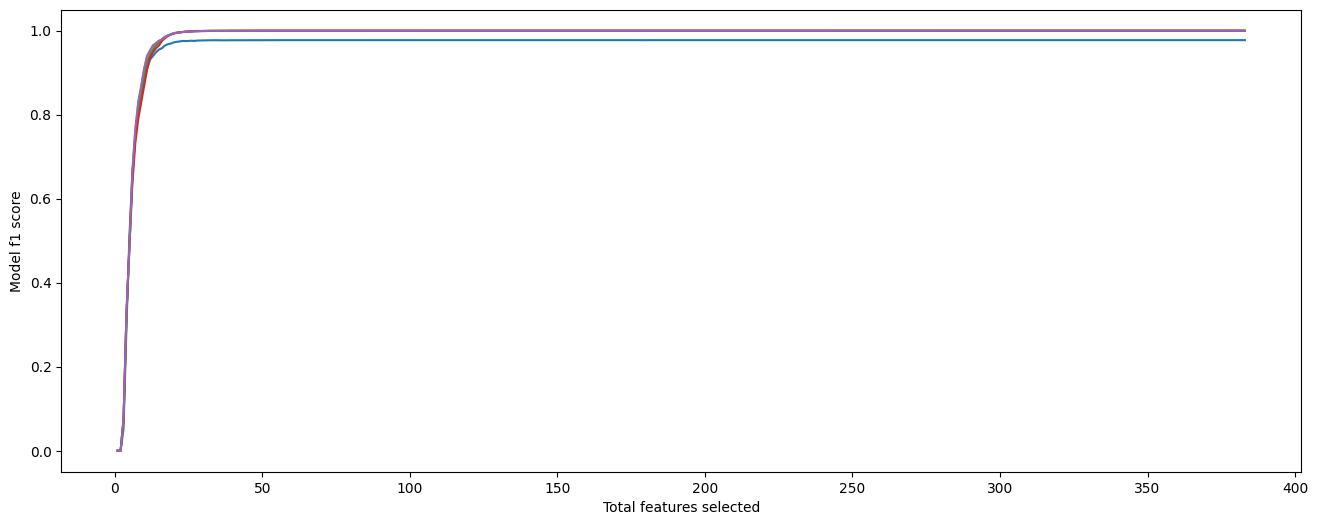
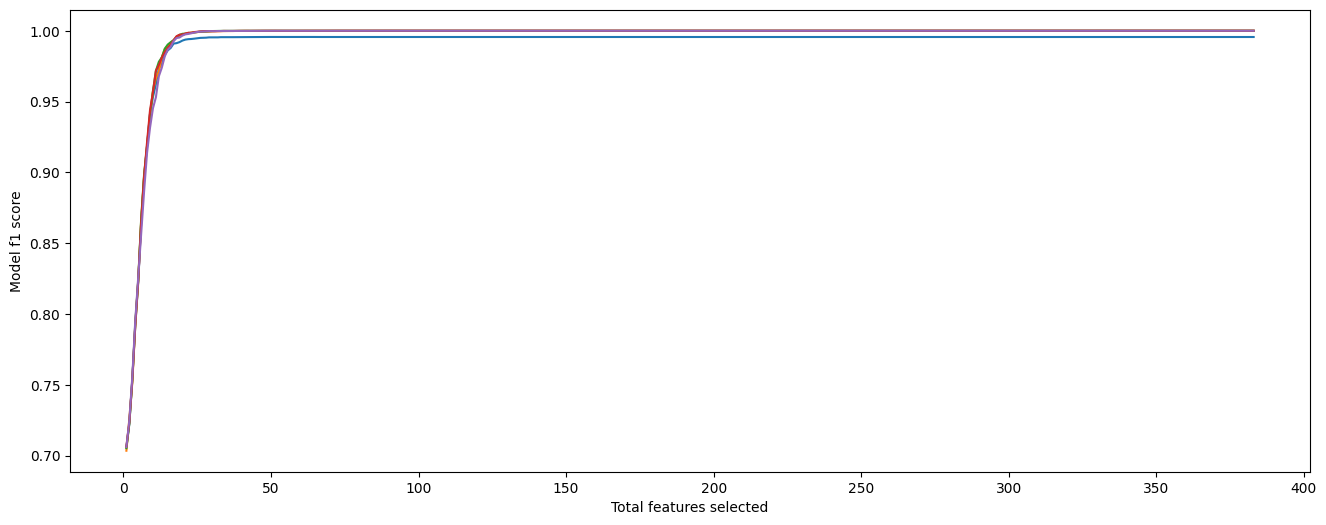
Removed oversampling of X_test.

diff --git a/preprocessing.py b/preprocessing.py
@@ -51,20 +51,21 @@ def preprocessor():
     X_test = continuous_data(X_test, con, args.random_state)  # Imputation
     logging.info(f'X_test imputation complete.')
 
+    '''
     if args.onehot:
         X_train = feature_encoding(X_train, Onehot=one_hot_labels)  # One hot encoding
         X_test = feature_encoding(X_test, Onehot=one_hot_labels)  # One hot encoding
         logging.info(f'One hot encoding complete.')
+    '''
 
     X_train, y_train = ou_sampling(X_train, y_train, 1, args.random_state, cat)  # Over/undersampling
-    X_test, y_test = ou_sampling(X_test, y_test, 1, args.random_state, cat)  # Over/undersampling
     logging.info(f'Sampling complete.')
 
     # Save imputed dataframes
-    X_train.to_csv('/data/home/bt211037/dissertation/preprocessed_data/X_train.tsv', sep='\t')
-    X_test.to_csv('/data/home/bt211037/dissertation/preprocessed_data/X_test.tsv', sep='\t')
-    y_train.to_csv('/data/home/bt211037/dissertation/preprocessed_data/y_train.tsv', sep='\t')
-    y_test.to_csv('/data/home/bt211037/dissertation/preprocessed_data/y_test.tsv', sep='\t')
+    X_train.to_csv(f'/data/home/bt211037/dissertation/preprocessed_data/{args.random_state}X_train.tsv', sep='\t')
+    X_test.to_csv(f'/data/home/bt211037/dissertation/preprocessed_data/{args.random_state}X_test.tsv', sep='\t')
+    y_train.to_csv(f'/data/home/bt211037/dissertation/preprocessed_data/{args.random_state}y_train.tsv', sep='\t')
+    y_test.to_csv(f'/data/home/bt211037/dissertation/preprocessed_data/{args.random_state}y_test.tsv', sep='\t')
     logging.info(f'Files saved, preprocessing complete.')
 
     return f'Preprocessing complete.'
